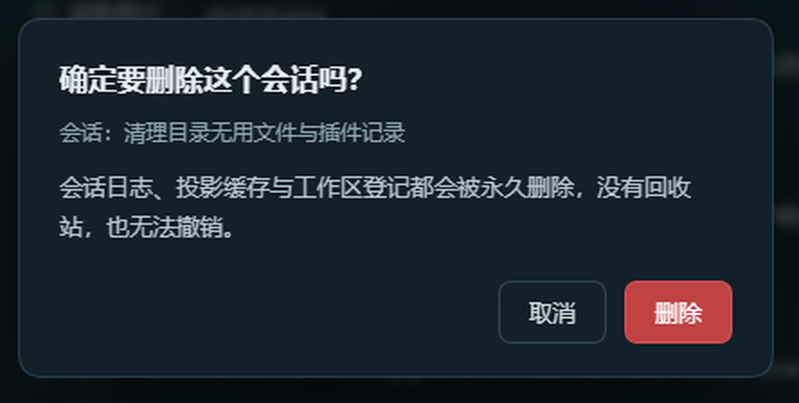
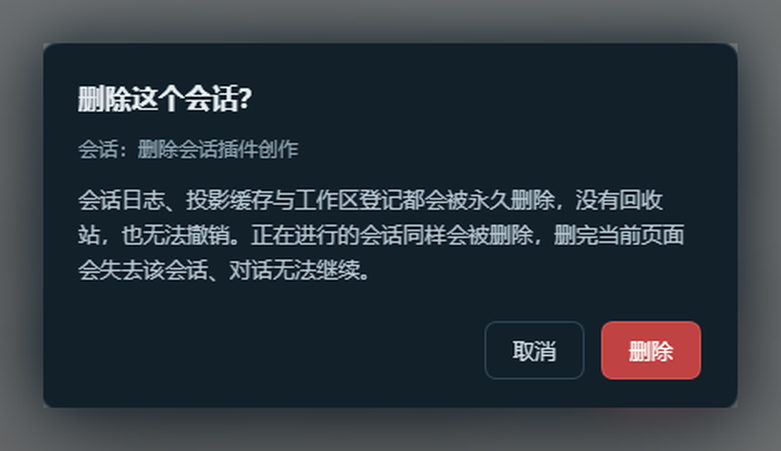
feat: delete session as a single top-level menu entry

diff --git a/client.js b/client.js
@@ -68,22 +68,16 @@ window.__ModuleLoader__.load({
     const COPY = zh
       ? {
           label: '删除会话',
-          confirm: '删除会话（不可恢复）',
-          force: '强制删除（含进行中会话）',
           done: '会话已删除',
           failed: '删除失败',
-          inUse: '这个会话正在运行中，请等这一轮结束后再删，或选择强制删除',
+          inUse: '这个会话正在运行中，请稍后再试',
           notFound: '没有找到这个会话的记录',
-          dialogTitle: '确定要删除这个会话吗？',
-          dialogTitleForce: '强制删除这个会话？',
+          dialogTitle: '删除这个会话？',
           dialogBody:
-            '会话日志、投影缓存与工作区登记都会被永久删除，没有回收站，也无法撤销。',
-          dialogBodyForce:
-            '这个会话可能正在使用中。强制删除后当前页面会失去该会话，正在进行的对话将无法继续。删除不可撤销。',
+            '会话日志、投影缓存与工作区登记都会被永久删除，没有回收站，也无法撤销。正在进行的会话同样会被删除，删完当前页面会失去该会话、对话无法继续。',
           dialogSession: '会话',
           dialogCancel: '取消',
           dialogConfirm: '删除',
-          dialogConfirmForce: '强制删除',
           cleanLabel: '清理空白会话',
           cleanConfirm: '清理空白会话',
           cleanDialogTitle: '清理全部空白会话？',
@@ -100,22 +94,16 @@ window.__ModuleLoader__.load({
         }
       : {
           label: 'Delete session',
-          confirm: 'Delete session (permanent)',
-          force: 'Force delete (including in-progress)',
           done: 'Session deleted',
           failed: 'Could not delete the session',
-          inUse: 'This session is running; wait for the current turn to finish, or force delete',
+          inUse: 'This session is running; try again later',
           notFound: 'No stored record for this session',
           dialogTitle: 'Delete this session?',
-          dialogTitleForce: 'Force delete this session?',
           dialogBody:
-            'The session log, projection cache and workspace registration are removed permanently. There is no trash and no undo.',
-          dialogBodyForce:
-            'This session may be in use. Force deleting it takes it away from the current page, and the conversation cannot continue. This cannot be undone.',
+            'The session log, projection cache and workspace registration are removed permanently. There is no trash and no undo. In-progress sessions are deleted too — the current page loses that session and the conversation cannot continue.',
           dialogSession: 'Session',
           dialogCancel: 'Cancel',
           dialogConfirm: 'Delete',
-          dialogConfirmForce: 'Force delete',
           cleanLabel: 'Clean blank sessions',
           cleanConfirm: 'Clean blank sessions',
           cleanDialogTitle: 'Clean all blank sessions?',
@@ -398,22 +386,24 @@ window.__ModuleLoader__.load({
           }
         }
 
-        const run = (notify, target, force) => async () => {
+        const run = (notify, target) => async () => {
           const sessionId = target?.sessionId
           if (typeof sessionId !== 'string' || sessionId.length === 0) return
 
           const confirmed = await confirmDialog({
-            title: force ? COPY.dialogTitleForce : COPY.dialogTitle,
-            body: force ? COPY.dialogBodyForce : COPY.dialogBody,
+            title: COPY.dialogTitle,
+            body: COPY.dialogBody,
             sessionTitle: target?.displayTitle,
             sessionLabel: COPY.dialogSession,
             cancelLabel: COPY.dialogCancel,
-            confirmLabel: force ? COPY.dialogConfirmForce : COPY.dialogConfirm,
+            confirmLabel: COPY.dialogConfirm,
             danger: true,
           })
           if (!confirmed) return
 
-          const { status, body } = await deleteSession(sessionId, force)
+          // One entry, strongest semantics: running sessions are deleted too, so
+          // the request always carries force. The dialog above is the only gate.
+          const { status, body } = await deleteSession(sessionId, true)
           if (status === 200 && body?.ok) {
             notify(COPY.done, true)
             try {
@@ -470,22 +460,8 @@ window.__ModuleLoader__.load({
                     danger: true,
                     separatorBefore: true,
                     afterContent: true,
-                    children: [
-                      {
-                        id: 'confirm',
-                        label: COPY.confirm,
-                        danger: true,
-                        run: run(notify, target, false),
-                        failureLabel: COPY.failed,
-                      },
-                      {
-                        id: 'force',
-                        label: COPY.force,
-                        danger: true,
-                        run: run(notify, target, true),
-                        failureLabel: COPY.failed,
-                      },
-                    ],
+                    run: run(notify, target),
+                    failureLabel: COPY.failed,
                   },
                 ]
               },

diff --git a/README.md b/README.md
@@ -7,11 +7,9 @@ A DSH plugin that permanently deletes session records (logs, projection cache, w
 ## 用法 / Usage
 
 1. 刷新一次 Web GUI 页面（让客户端包加载）。
-2. 在左侧会话列表上**右键**任意会话 → 「删除会话」。
-3. 选择：
-   - **删除会话（不可恢复）** —— 删除不在运行中的会话（打开过但已结束的会话也可以删）；
-   - **强制删除（含进行中会话）** —— 连正在跑一轮的那个会话一起删（删完当前页面会失联，请自行切换或重开）。
-4. 弹出二次确认对话框，点「删除」才真正执行；点「取消」、按 `Esc` 或点空白处都会中止（不会发出任何请求）。
+2. 在左侧会话列表上**右键**任意会话 → 菜单底部的红色「**删除会话**」（一级菜单项，点它直接进确认框，没有二级菜单）。
+3. 弹出二次确认对话框，点「删除」才真正执行；点「取消」、按 `Esc` 或点空白处都会中止（不会发出任何请求）。
+4. 一个入口覆盖所有情况：**正在跑一轮的会话也能删**（删完当前页面会失去该会话，正在进行的对话无法继续），确认框正文对此有明确提示。
 
 删除成功后侧栏立即消失，输入框的 `@` 候选也会同步消失（两者都来自同一份会话存储列表）。
 
@@ -39,9 +37,9 @@ Right-click a **workspace header** → the violet “Clean blank sessions” to 
 ## 安全说明 / Safety
 
 - 删除**不可恢复**，没有回收站。重要会话请先备份 `~/.dsh/sessions/` 下对应目录。
-- 只有**正在跑一轮**的会话默认不能删（接口返回 `409 in-use`）；等这一轮结束，或改用「强制删除」。仅仅“打开过”不算占用。
+- 只有**正在跑一轮**的会话会被宿主阻止（接口返回 `409 in-use`）；插件对这类会话同样直接带 `force: true` 请求，因此菜单里只有一个「删除会话」入口，不会因为会话在跑而失败。仅仅“打开过”不算占用。
 - 「清理空白会话」只删**零事件**会话：日志解压后除记录头外没有任何内容（且不超过 1 KB）；运行中的会话会被跳过并在提示里注明。
-- 宿主侧接口：`POST /dsh-session-purger/delete`，body `{"id": "<sessionId>", "force": false}`；`GET /dsh-session-purger/list` 列出可删除的会话（每行带 `live` 与 `running`）；`GET /dsh-session-purger/empty[?cwd=…]` 列出空白会话；`POST /dsh-session-purger/clean-empty` body `{"cwd": "<可选，限定工作区>"}` 批量清理。
+- 宿主侧接口：`POST /dsh-session-purger/delete`，body `{"id": "<sessionId>", "force": true}`（插件固定传 `force: true`，二次确认框是唯一的拦截点）；`GET /dsh-session-purger/list` 列出可删除的会话（每行带 `live` 与 `running`）；`GET /dsh-session-purger/empty[?cwd=…]` 列出空白会话；`POST /dsh-session-purger/clean-empty` body `{"cwd": "<可选，限定工作区>"}` 批量清理。
 
 ## 安装 / Install
 
@@ -65,7 +63,7 @@ dsh plugin --profile desktop add github:595708049/dsh-session-purger
 ## 开发备注
 
 - 宿主入口 `index.js`：注册 `webServer` exact 路由。注册是**幂等**的（先查 `server.exact` 再 mount），因为桌面端禁用插件时不会卸载已注册的路由，重复注册会抛 `webserver: duplicate exact route` 导致整个插件条目不激活。
-- 浏览器入口 `client.js`：`window.__ModuleLoader__.load({ id, factory })` 外壳，通过 `contextMenus.register({ target: 'session' })` 挂右键菜单，子菜单两项（确认 / 强制），父项图标通过 keyed slot `contextMenu.icon` 注册（key `dsh-session-purger.delete`）。
+- 浏览器入口 `client.js`：`window.__ModuleLoader__.load({ id, factory })` 外壳，通过 `contextMenus.register({ target: 'session' })` 挂右键菜单，单个一级项「删除会话」（`run` 直接走确认框，不再有 `children` 子菜单），图标通过 keyed slot `contextMenu.icon` 注册（key `dsh-session-purger.delete`）。
 - 菜单项没有颜色字段：`icon` 走 keyed slot 自定义组件（外层 `span` 设 `color`，图标描边是 `currentColor`），文字则直接把带 `style.color` 的 React 元素传给 `label` —— 宿主用 `children: action.label` 渲染，不校验类型，所以不需要 MutationObserver。
 - 二次确认框是自己画的 DOM 模态框（`confirmDialog()`，z-index `2147483000`），因为客户端插件 API 没有 `dialog` / `confirm` 服务；取消走 `Esc`、点背景、点「取消」三条路径，全部在发出请求之前返回。
 - 删除顺序很重要：**先**把 sessionId 从 workspace 摘除，**再**删日志目录 —— `workspace.sessionIds` 会按 `candidateMatches` 过滤，目录一删就无法再匹配，detach 会变成空操作。
